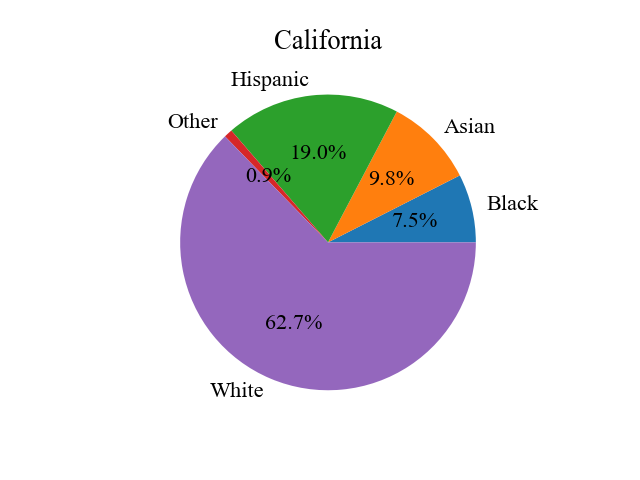
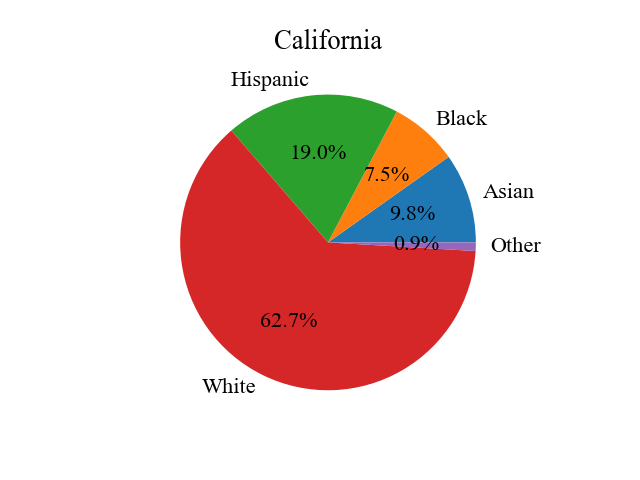
update

Changed region(s): [[0.25, 0.2188, 0.8438, 0.8438], [0.75, 0.375, 0.8438, 0.4375], [0.6875, 0.2188, 0.7812, 0.2812]]

diff --git a/src/ethnicity.py b/src/ethnicity.py
@@ -57,8 +57,6 @@ def cleanEthnicityDataByCounty(csvFile='../data/death.csv', plot = False, county
     
     if True:
         counting = processCounting(counting)
-        swtichColumn(counting, -1, -2)
-        swtichColumn(counting, 0, 1)
         plt.rcParams["font.family"] = "Times New Roman"
         plt.rc('font', size=16)
         plt.title(county)
@@ -226,10 +224,8 @@ def cleanEthniciyData(plot = False):
     # Plot death race composition
     counting = data.groupby(['Cause_Desc']).sum()
     counting = data.groupby(['Strata_Name']).sum().reset_index()
-    if plot:
+    if True:
         counting = processCounting(counting)
-        swtichColumn(counting, -1, -2)
-        swtichColumn(counting, 0, 1)
         plt.rcParams["font.family"] = "Times New Roman"
         plt.rc('font', size=16)
         plt.title('California')
@@ -244,8 +240,8 @@ def cleanEthniciyData(plot = False):
             
 
 if __name__ == '__main__':
-    cleanEthniciyData(plot = True)
-    cleanEthnicityDataByCounty(plot = True)
-    filterEthniciyData(plot = True)
-    filterEthnicityDataByCounty(plot = True)
-    barPlotData()
+    cleanEthniciyData(plot = False)
+    cleanEthnicityDataByCounty(plot = False)
+    #filterEthniciyData(plot = True)
+    #filterEthnicityDataByCounty(plot = True)
+    #barPlotData()
